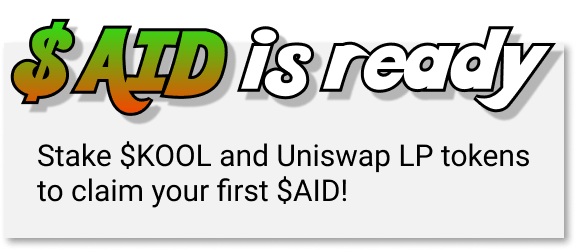
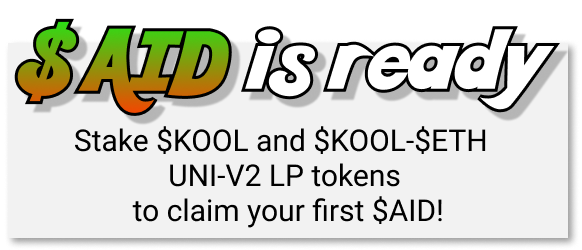
new pop-up id=confirmation-window

diff --git a/farming-files/index.html b/farming-files/index.html
@@ -4,7 +4,7 @@
 <head>
   <meta charset="UTF-8">
   <meta name="viewport" content="width=device-width, initial-scale=1.0">
-  <link rel="icon" type="image/png" href="/farming-files/farming/image/kool-katz-min.png">
+  <link rel="icon" type="image/png" href="https://kool.lol/farming/farming/image/kool-katz-min.png">
   <link rel="stylesheet" href="https://stackpath.bootstrapcdn.com/bootstrap/4.5.2/css/bootstrap.min.css">
   <link rel="stylesheet" href="farming/style.css">
   <meta property="og:image" content="/image/snip.jpg">
@@ -42,7 +42,7 @@
               <a href="#about" class="nav-item">about</a>
             </li>
             <li>
-              <a href="#menu" class="nav-item">menu</a>
+              <a href="#menulink" class="nav-item">menu</a>
             </li>
             <li>
               <a href="https://kool.lol/" class="nav-item">original</a>
@@ -106,7 +106,7 @@
             <div class="tablet-item">
               <div class="row">
                 <div class="col-md-12 second-tablet-item">
-                  <p class="aid-balance-title">Your $AID balance</p>
+                  <p class="aid-balance-title">Total $AID supply</p>
                   <p class="amount" id="aid-supply">Locked</p>
                 </div>
               </div>
@@ -129,7 +129,7 @@
     <div class="container">
       <div class="row">
         <div class="col-md-12 frog-menu">
-          <span>MENU</span><img src="./farming/image/frog-min.png" alt="frog" width="265px" id="menu">
+          <span>MENU</span><img src="./farming/image/frog-min.png" alt="frog" width="265px" id="menulink">
         </div>
       </div>
     </div>
@@ -185,7 +185,7 @@
               <div class="col-md-1"></div>
               <div class="col-md-1"></div>
               <div class="col-md-10">
-                <div class="select"><span>APY</span> <span>333.4 %</span></div>
+                <div class="select"><span>APY</span> <span>%</span></div>
               </div>
               <div class="col-md-1"></div>
             </div>
@@ -200,11 +200,11 @@
         <div class="row">
           <div class="col-md-4 footer-nav">
             <ul>
-              <li><a href="https://etherscan.io/address/0x9d695e811beb55c98b1b3668295e390d33de5930">Chef contract</a></li>
-              <li><a href="https://info.uniswap.org/pair/0xda15087ec9a8460e2e52504d0757a154a158b913">Uniswap</a></li>
+              <li><a href="https://etherscan.io/token/0x11d6ccabc5130f8b473cef14b462325b3a8b1785">Token address</a></li>
+              <li><a href="https://info.uniswap.org/pair/0xda15087ec9a8460e2e52504d0757a154a158b913">KOOL Uniswap</a></li>
             </ul>
           </div>
-          <div class="col-md-4">
+          <div class="col-md-4 img-container">
             <img src="./farming/image/footer-image-min.png" alt="footer-img" width="320px" class="footer-img">
           </div>
           <div class="col-md-4 footer-nav">
@@ -214,7 +214,7 @@
             </ul>
           </div>
         </div>
-        <div class="col-md-4">
+        <div class="col-md-4 img-container">
           <img src="./farming/image/footer-image-min.png" alt="footer-img" width="320px" class="mobile-show">
         </div>
       </footer>
@@ -242,7 +242,7 @@
                   <p>Metamask</p>
                 </div>
               </div>
-              <button class="connect-wallet-button">Connect</button>
+              <button class="connect-wallet-button">Soon</button>
             </div>
           </div>
           <div class="col-md-6">
@@ -257,13 +257,48 @@
                   <p>WalletConnect</p>
                 </div>
               </div>
-              <button class="connect-wallet-button">Connect</button>
+              <button class="connect-wallet-button">Soon</button>
             </div>
           </div>
         </div>
         <div class="row">
           <div class="col-md-12">
             <button class="cancel-button">Cancel</button>
+          </div>
+        </div>
+      </div>
+    </div>
+  </div>
+
+  <div class="connect-wallet" id="confirmation-window">
+    <div class="wallet-pop-up">
+      <div class="container">
+        <div class="row">
+          <div class="col-md-12 wallet-title">
+            Select a wallet provider.
+          </div>
+          <div class="col-md-12 wallet-balance-subtitle">
+            <span id="kool-balance">123</span> KOOL tokens available
+          </div>
+        </div>
+        <div class="row row-input-container">
+          <div class="col-md-12 input-container">
+            <div class="row">
+              <div class="col-md-6 input-box">
+                <input type="text" class="token-amount" placeholder="Enter amount">
+              </div>
+              <div class="col-md-6 ticker-container">
+                <span>KOOL</span> <a class="max-button">MAX</a>
+              </div>
+            </div>
+          </div>
+        </div>
+        <div class="row">
+          <div class="col-md-6">
+            <button class="cancel-button">Cancel</button>
+          </div>
+          <div class="col-md-6">
+            <button class="cancel-button">Confirm</button>
           </div>
         </div>
       </div>

diff --git a/farming-files/farming/style.css b/farming-files/farming/style.css
@@ -220,6 +220,11 @@ button {
   background: url(./image/bg-deck.png);
   background-size: cover;
   padding: 30px 10px;
+  margin: 0 auto;
+}
+.img-container {
+    display: flex;
+    justify-content: center;
 }
 
 .kool-balance-title {
@@ -397,6 +402,80 @@ div.select {
   color: #494949;
 }
 
+.wallet-balance-subtitle {
+  font-family: Roboto;
+  font-style: normal;
+  font-weight: 900;
+  font-size: 22px;
+  line-height: 31px;
+  text-align: right;
+  color: #BC9E9E;
+}
+.token-amount {
+  border: none;
+  background: none;
+  outline: none;
+  max-width: 90%;
+  display: flex;
+  font-family: Roboto;
+  font-style: normal;
+  font-weight: 900;
+  font-size: 25px;
+  line-height: 31px;
+  text-align: right;
+  color: #4A4A4A;
+}
+.ticker-container {
+  display: flex;
+  justify-content: flex-end;
+  align-items: center;
+  padding-right: 30px;
+}
+.ticker-container span, .ticker-container a {
+  font-family: Roboto;
+  font-style: normal;
+  font-weight: 900;
+  font-size: 22px;
+  line-height: 30px;
+
+  color: #000000;
+}
+
+.ticker-container a {
+  background: rgba(255, 242, 242, 0.94);
+border: 2px solid #000000;
+box-sizing: border-box;
+box-shadow: 0px 9px 4px rgba(0, 0, 0, 0.25);
+border-radius: 20px;
+padding: 8px;
+margin-left: 5px;
+text-decoration: none;
+}
+.ticker-container a:hover {
+  text-decoration: none;
+  background: rgba(255, 143, 143, 0.94);
+  cursor: pointer;
+}
+.input-container {
+  width: 100%;
+  background: rgba(255, 242, 242, 0.94);
+  border: 3px solid #000000;
+  box-sizing: border-box;
+  box-shadow: 0px 9px 4px rgba(0, 0, 0, 0.25);
+  border-radius: 20px;
+  padding: 5px 0px;
+}
+.input-box {
+  display: flex;
+  justify-content: flex-end;
+  align-items: center;
+}
+#confirmation-window .cancel-button {
+  border-radius: 20px;
+}
+.row-input-container {
+  padding: 0px 15px;
+}
 
 
 
@@ -471,6 +550,12 @@ div.select {
   .select {
     font-size: 20px;
     line-height: 26px;
+  }
+  .amount {
+    line-height: 20px;   
+  }
+  .pending {
+      margin-left: -5px;
   }
 
 }
